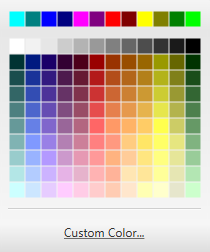
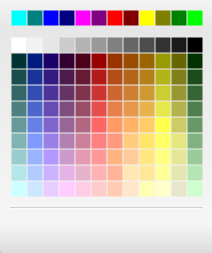
Update image and UG

diff --git a/docs/UserGuide.md b/docs/UserGuide.md
@@ -647,17 +647,19 @@ customized to your liking.
 1. Open up the **Settings** window either by clicking the **Settings** button or by typing in `settings` into the command box.
  
 
-2. Click the dropdown menu, and pick a color. You can pick a custom color as well. <br><br>
+2. Click the dropdown menu, and pick a color. 
 
    ![pre-selected](images/user-guide/pre-selected.PNG)
 
     *You can choose one of the pre-selected colors.* 
+<div markdown="span" class="alert alert-primary">:bulb: **Tip:**
+The fields do not have to be any specific order. So, name can come before major etc.
+</div>
 
-
-4. This change is **immediate**, and does not require a restart.
+3. This change is **immediate**, and does not require a restart.
  
 <div markdown="span" class="alert alert-primary">:bulb: **Tip:**
-Although most image sizes will work perfectly fine, the best image sizes are 120px by 120px.
+Advanced users: You can manually input your own color hex code in the preferences.json file!
 </div>
 
 ### 4. Customization FAQs
